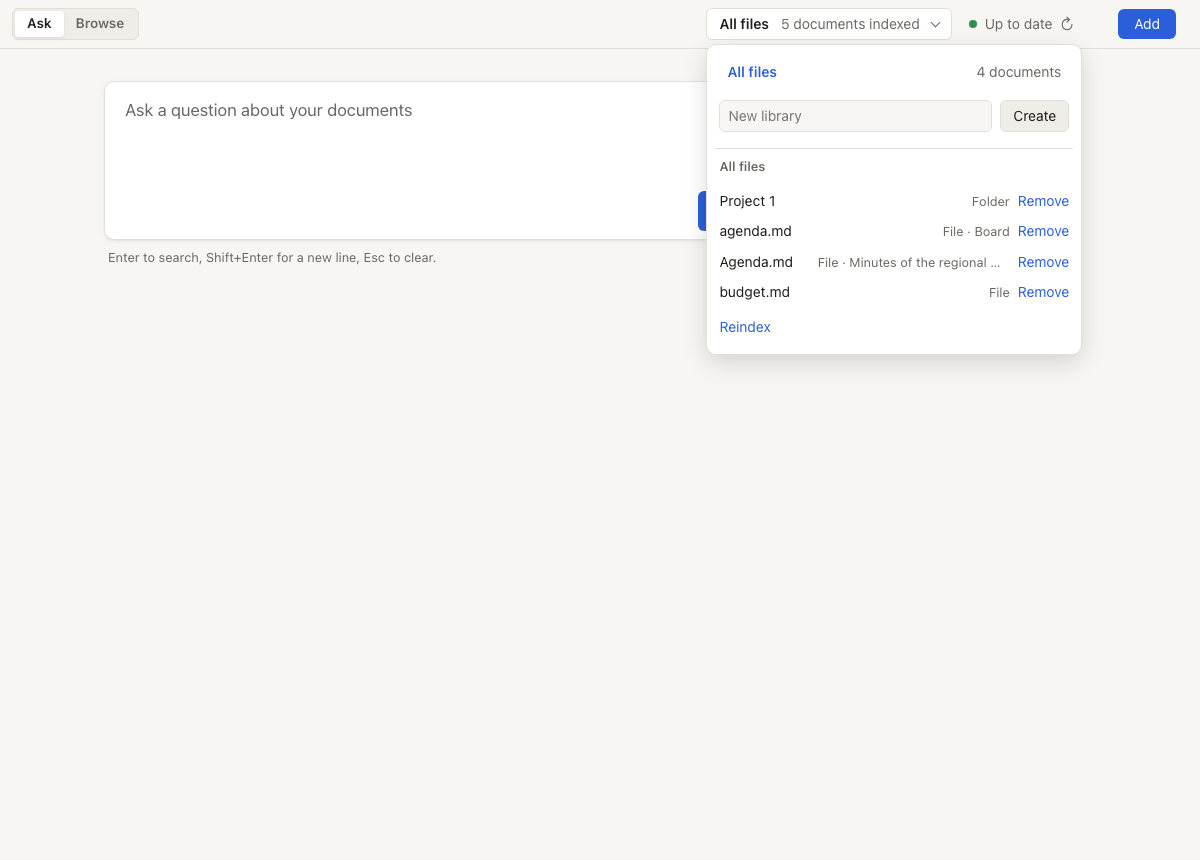
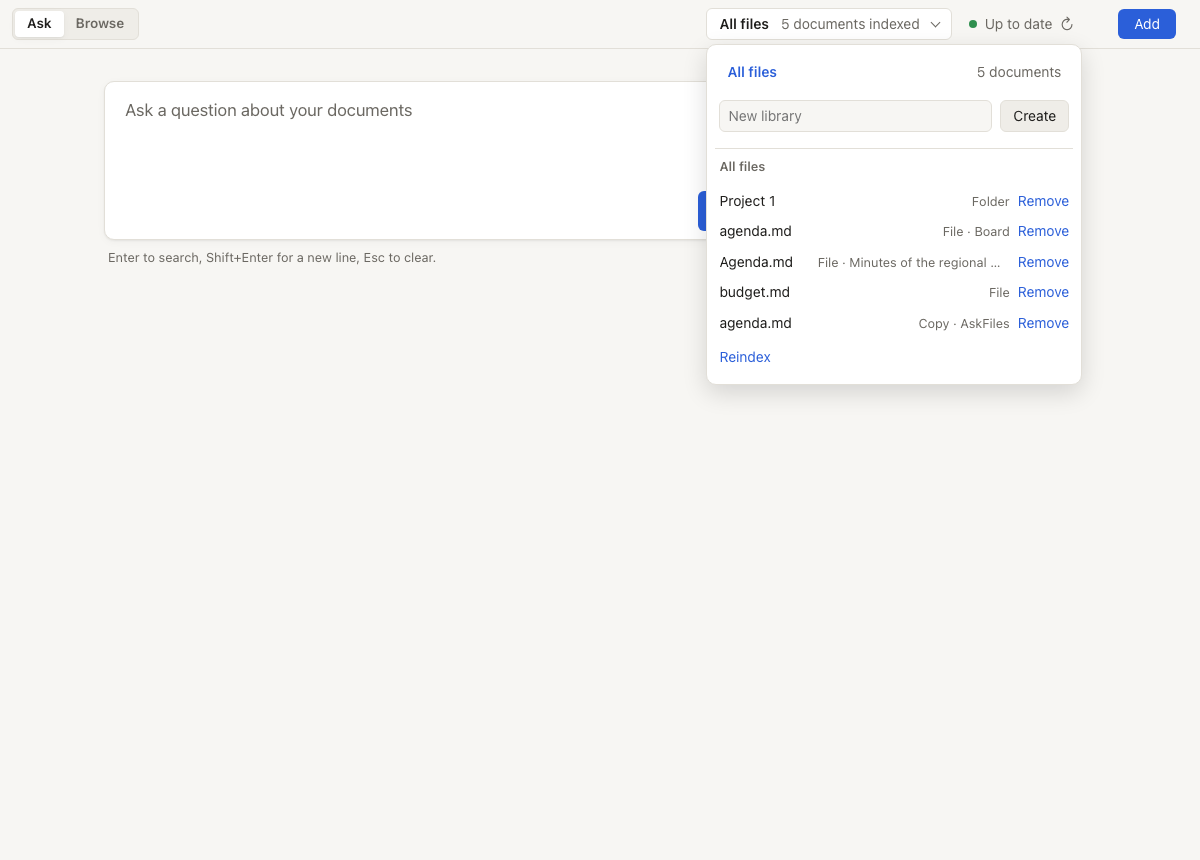
Library menu: a copy of a same-name file shows Copy · AskFiles instead of the copies folder's name
Claude-Session: https://claude.ai/code/session_018TGyq8jhpjqYDijyPVhUzZ

Changed region(s): [[0.5858, 0.3628, 0.8942, 0.4535]]

diff --git a/src/renderer/shared/sources.js b/src/renderer/shared/sources.js
@@ -56,8 +56,8 @@ export function sourceMenuText(s) {
 
 /**
  * The parent folder's name of each listed file or copy whose file name (ignoring case) another
- * listed file or copy shares, by source id; files with a name of their own get none, so their
- * rows stay as they are.
+ * listed file or copy shares, by source id (AskFiles for a copy, which lives in the library's own
+ * folder); files with a name of their own get none, so their rows stay as they are.
  */
 export function sameNameFolders(rows) {
   const singles = rows.filter((s) => s.kind !== 'folder');
@@ -66,6 +66,11 @@ export function sameNameFolders(rows) {
   const out = new Map();
   for (const s of singles) {
     if (count.get(s.name.toLowerCase()) < 2) continue;
+    // A copy sits in the library's own folder of copies, whose name tells the user nothing.
+    if (s.kind === 'copy') {
+      out.set(s.id, 'AskFiles');
+      continue;
+    }
     const parts = s.path.split(/[\\/]/).filter(Boolean);
     out.set(s.id, parts.length > 1 ? parts[parts.length - 2] : s.path);
   }

diff --git a/src/renderer/shared/sources.test.js b/src/renderer/shared/sources.test.js
@@ -71,7 +71,7 @@ describe('folder of same-name files in the menu', () => {
     expect([...sameNameFolders(rows)]).toEqual([
       ['file-1', 'Board'],
       ['file-2', 'Team'],
-      ['file:agenda.md', 'files'],
+      ['file:agenda.md', 'AskFiles'],
     ]);
     // A folder of the same name as a file does not count; one file of a name gets nothing.
     expect(sameNameFolders([{ ...folder(1), name: 'agenda.md' }, rows[1]]).size).toBe(0);

diff --git a/docs/app.md b/docs/app.md
@@ -174,7 +174,7 @@ src/main/bridge/bridge.test.ts runs the preload in the same function wrapper the
 
 ## Top bar
 
-src/renderer/shared/topbar.js and topbar.css, mounted by the Ask page into `<header id="top-bar">`. It stays fixed while the views scroll (the body is a column; only the view scrolls). At the far left the Ask and Browse switch, inset like the Browse sidebar's entries so it stands over them. At the right the library switcher (library name, indexed count, indexing state: Indexing, N left; Up to date; Folder not available; the dead-letter count with errors in the tooltip), whose menu opens from its right edge and lists the libraries with their counts, creates one, and for the current library lists its sources with Remove, renames it, reindexes it and deletes it (asks once); then the status and its ↻ as one button (Up to date ↻, tooltip Check for updates, with the reason in front when a source cannot be reached; it reads Checking… for at least 0.6 s, then Up to date or the usual indexing status; Enter and Space work, the focus ring shows for keyboard focus only, and it stays focusable while checking); then, after a clear gap, the Add button (Add files, Add folder). The menu lists every linked folder, then added files until it holds five rows; the rest is one row, N more files · Manage (N more folders and files when both are left out); with five or more folders it lists all folders and no added file. When two or more listed files or copies share a file name (ignoring case), each of them shows its parent folder's name after its type (File · Board), cut with an ellipsis, the full path on hover; other rows are unchanged. Manage opens the Library page in Browse at its Sources section: every linked folder, added file and old copy with search, type (Folder, File, Copy), path and Remove, and a note when originals are missing and about to leave the library. A name conflict on an add opens a dialog with Replace, Keep both (Keep all with several files of that name, each listed with its path to pick from) and Cancel (Escape). The result of an add shows just left of the library switcher. A library without sources shows one sentence and the Add button in place of both views. Dropping files or folders anywhere in the window adds them to the current library. The Ask page keeps the test ids status-count, status-state and status-failed.
+src/renderer/shared/topbar.js and topbar.css, mounted by the Ask page into `<header id="top-bar">`. It stays fixed while the views scroll (the body is a column; only the view scrolls). At the far left the Ask and Browse switch, inset like the Browse sidebar's entries so it stands over them. At the right the library switcher (library name, indexed count, indexing state: Indexing, N left; Up to date; Folder not available; the dead-letter count with errors in the tooltip), whose menu opens from its right edge and lists the libraries with their counts, creates one, and for the current library lists its sources with Remove, renames it, reindexes it and deletes it (asks once); then the status and its ↻ as one button (Up to date ↻, tooltip Check for updates, with the reason in front when a source cannot be reached; it reads Checking… for at least 0.6 s, then Up to date or the usual indexing status; Enter and Space work, the focus ring shows for keyboard focus only, and it stays focusable while checking); then, after a clear gap, the Add button (Add files, Add folder). The menu lists every linked folder, then added files until it holds five rows; the rest is one row, N more files · Manage (N more folders and files when both are left out); with five or more folders it lists all folders and no added file. When two or more listed files or copies share a file name (ignoring case), each of them shows its parent folder's name after its type (File · Board; a copy shows Copy · AskFiles), cut with an ellipsis, the full path on hover; other rows are unchanged. Manage opens the Library page in Browse at its Sources section: every linked folder, added file and old copy with search, type (Folder, File, Copy), path and Remove, and a note when originals are missing and about to leave the library. A name conflict on an add opens a dialog with Replace, Keep both (Keep all with several files of that name, each listed with its path to pick from) and Cancel (Escape). The result of an add shows just left of the library switcher. A library without sources shows one sentence and the Add button in place of both views. Dropping files or folders anywhere in the window adds them to the current library. The Ask page keeps the test ids status-count, status-state and status-failed.
 
 ## Browse view
 
